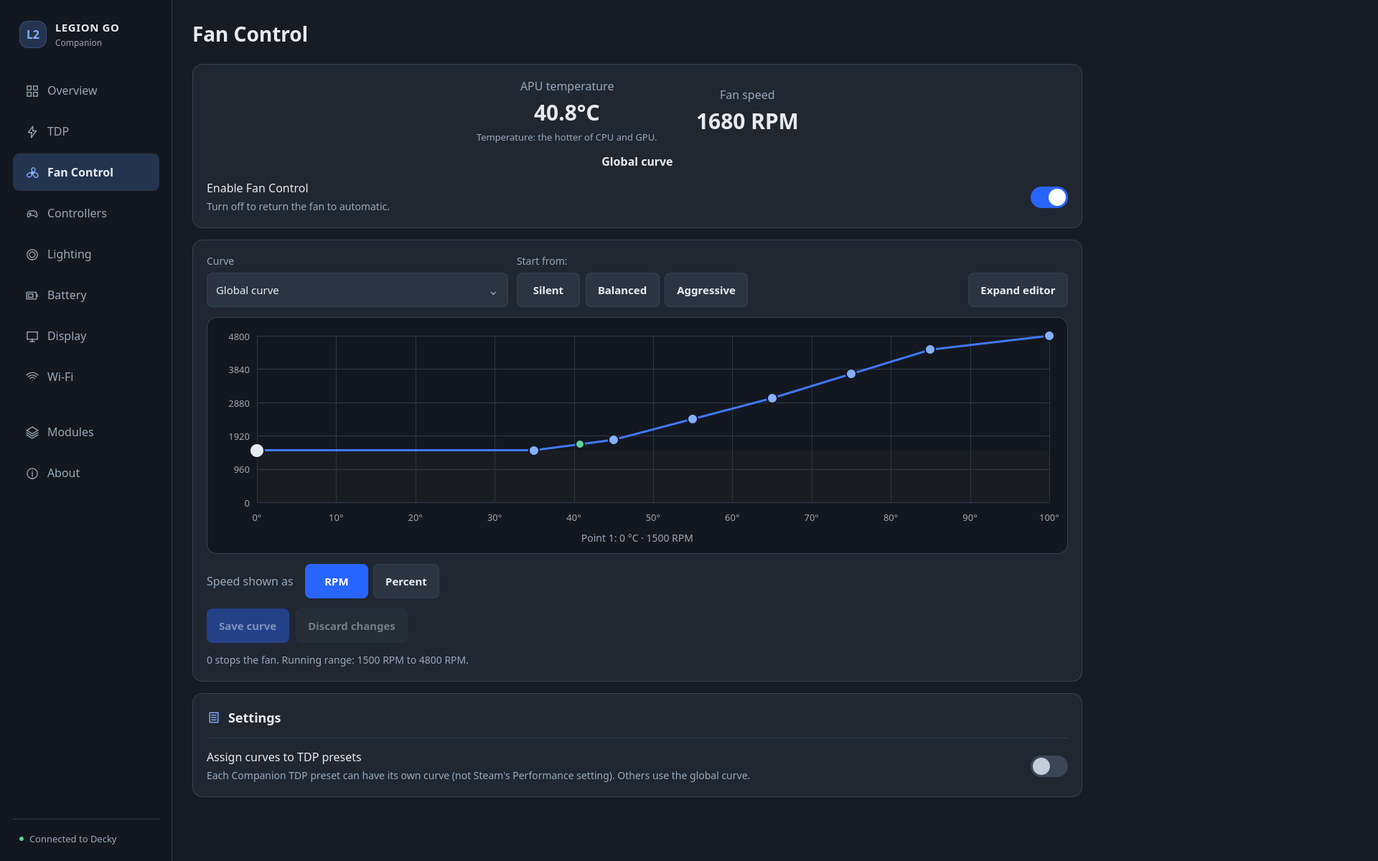
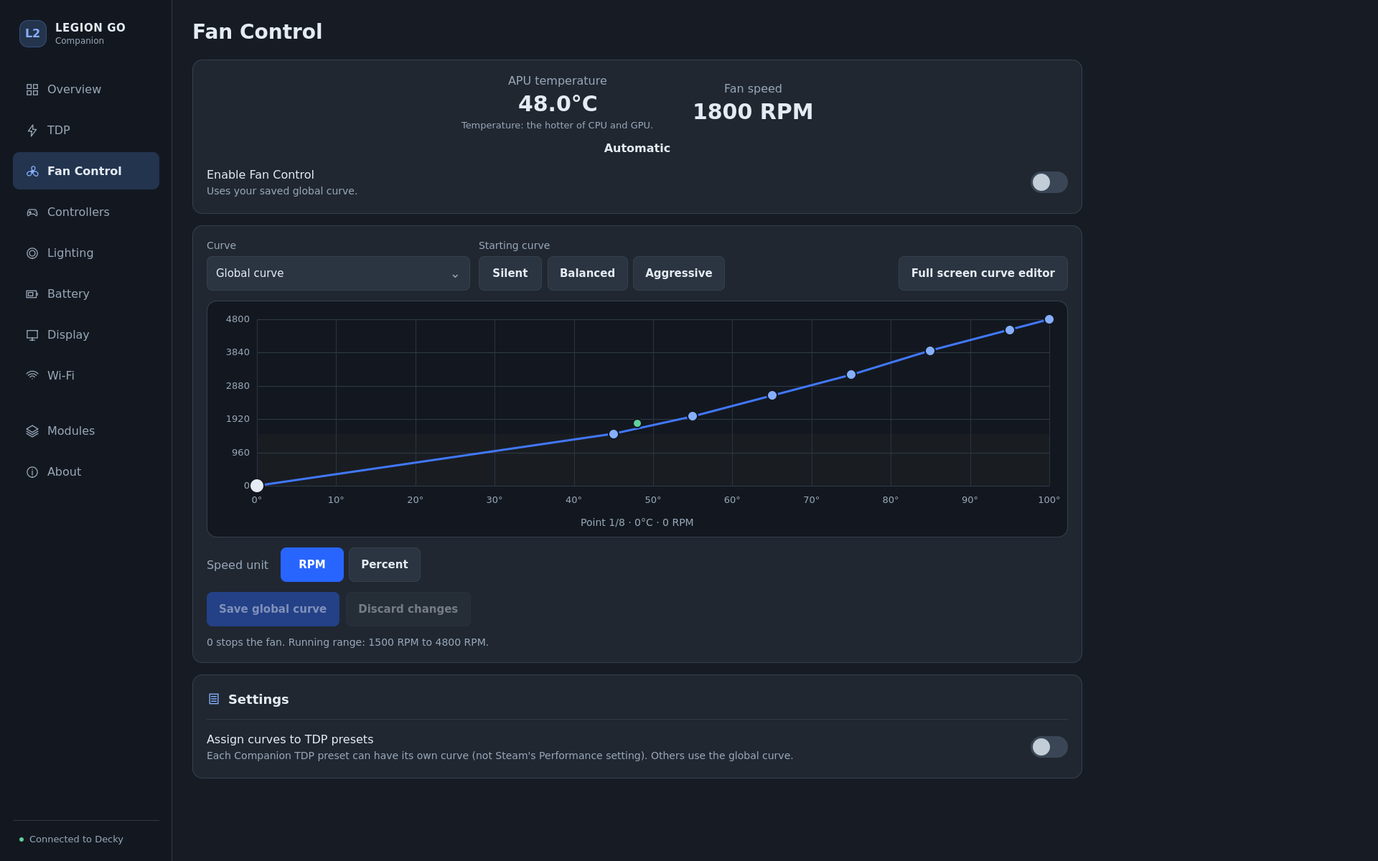
Audit follow-ups: build keeps the native app, checksum, Desktop parity
- npm run build cleans only rollup's own output, so dist/desktop survives;
  npm run package writes LegionGo2Companion-<version>.zip.sha256
  (sha256sum format), checked by verify-package.py and uploaded by CI.
- README: packaging needs Git and tar, no external ZIP tool;
  docs/README.md in English; Desktop TDP and Fan screenshots regenerated
  from the offline fixtures.
- Desktop follows the panel: Overview TDP badge uses the panel summary
  (Off · Lenovo defaults when TDP is off), the TDP editor shows a loading
  line instead of placeholder limits, About shows the update check result,
  Vibration warns about a missing controller driver. The rules live in
  desktop/native/{tdp,updates,vibration}.mjs and both UIs use them.
- Fan labels in the Desktop app match the panel (Starting curve, Speed
  unit, Speed edit step, Full screen curve editor, save and point texts
  from fan.mjs).

diff --git a/desktop/native/ModulePage.qml b/desktop/native/ModulePage.qml
@@ -7,6 +7,7 @@ import "wifi.mjs" as Wifi
 import "battery.mjs" as Battery
 import "rgb.mjs" as Rgb
 import "vibration.mjs" as Vibe
+import "updates.mjs" as Updates
 import "remap.mjs" as Remap
 import "controller.mjs" as Gyro
 import "firmware.mjs" as Firmware
@@ -24,6 +25,8 @@ RowLayout {
     // The Custom draft as in Decky: watts, boosts as headroom above SPL (see tdp.mjs).
     property var powerDraft:({spl:15,spptOff:5,fpptOff:10})
     property bool powerDirty:false
+    // Until the first get_settings the draft holds placeholders, so the editor shows a loading line instead.
+    property bool powerLoaded:false
     readonly property bool editing:powerDirty
     property string powerNotice:""
     property string draftGame:""
@@ -134,7 +137,7 @@ RowLayout {
     function gameProfileFresh() { return !!app() && backend.gameProfileApp===app() && backend.age("get_game_profile")<8; }
     function acOnline() { return s("get_power_source").ac===true; }
     function loadPower() {
-        if(!backend || powerDirty || !profileReady()) return;
+        if(!backend || powerDirty || !profileReady() || s("get_settings").spl==null) return;
         let source=s("get_settings");
         if(tdpScope!=="global" && s("get_game_profile").exists)
             source=tdpScope==="ac"?s("get_game_profile").ac_profile || source:s("get_game_profile").profile || source;
@@ -147,6 +150,7 @@ RowLayout {
             Tdp.fromAbsolute(w,sw,fw);
         if(s("get_game_profile").exists)acSeparate=!!s("get_game_profile").ac_separate;
         draftGame=app();
+        powerLoaded=true;
     }
     // What the running game uses: its saved profile decides; without one (or without a TDP provider to save
     // it), the local choice stands.
@@ -367,16 +371,17 @@ RowLayout {
                      note:()=>Tdp.scopeNote(gameUse(),gameTitle(app()))}),
                 choices("Edit settings for",()=>tdpScope==="ac"?"charger":"battery",chooseEditTarget,()=>[{id:"battery",label:"Battery"},{id:"charger",label:"Charger"}],
                     {kind:"options",scope:true,visible:()=>!!app() && s("get_settings").enabled===true && gameUse()==="charger",available:gameProfileFresh,note:editTargetNote}),
-                choices("Preset",()=>powerPreset,choosePreset,powerOptions,{kind:"options",available:()=>!!s("get_caps").tdp_available && !!s("get_settings").enabled,
+                notice("",()=>powerLoaded?"":"Loading power limits…"),
+                choices("Preset",()=>powerPreset,choosePreset,powerOptions,{kind:"options",visible:()=>powerLoaded,available:()=>!!s("get_caps").tdp_available && !!s("get_settings").enabled,
                     note:()=>Tdp.presetNote(powerPreset,presetTable())}),
-                number("Sustained power",()=>powerDraft.spl,v=>editPower("spl",v),tdpMin,()=>customCaps().spl,{kind:"range",suffix:" W",visible:()=>powerPreset==="custom",
+                number("Sustained power",()=>powerDraft.spl,v=>editPower("spl",v),tdpMin,()=>customCaps().spl,{kind:"range",suffix:" W",visible:()=>powerLoaded && powerPreset==="custom",
                     note:()=>tdpAdvanced()?"":"Boost follows automatically."}),
-                number("Slow boost",()=>powerDraft.spptOff,v=>editPower("sppt",v),0,()=>boostRoom().sppt || 1,{kind:"range",prefix:"+",suffix:" W",visible:()=>powerPreset==="custom" && tdpAdvanced(),
+                number("Slow boost",()=>powerDraft.spptOff,v=>editPower("sppt",v),0,()=>boostRoom().sppt || 1,{kind:"range",prefix:"+",suffix:" W",visible:()=>powerLoaded && powerPreset==="custom" && tdpAdvanced(),
                     available:()=>boostRoom().sppt>0,note:()=>boostNote(powerDraft.spptOff,boostRoom().sppt)}),
-                number("Fast boost",()=>powerDraft.fpptOff,v=>editPower("fppt",v),0,()=>boostRoom().fppt || 1,{kind:"range",prefix:"+",suffix:" W",visible:()=>powerPreset==="custom" && tdpAdvanced(),
+                number("Fast boost",()=>powerDraft.fpptOff,v=>editPower("fppt",v),0,()=>boostRoom().fppt || 1,{kind:"range",prefix:"+",suffix:" W",visible:()=>powerLoaded && powerPreset==="custom" && tdpAdvanced(),
                     available:()=>boostRoom().fppt>0,note:()=>boostNote(powerDraft.fpptOff,boostRoom().fppt)}),
                 field("","buttons",()=>powerDirty?"Unsaved changes":"",id=>{ if(id==="apply")applyPower(); else { powerDirty=false; customPicked=powerPreset==="custom"; loadPower(); } },
-                    {name:"Custom limits",visible:()=>powerPreset==="custom",available:()=>profileReady() && !!s("get_caps").tdp_available && !!s("get_settings").enabled,
+                    {name:"Custom limits",visible:()=>powerLoaded && powerPreset==="custom",available:()=>profileReady() && !!s("get_caps").tdp_available && !!s("get_settings").enabled,
                      choices:()=>[{id:"apply",label:applyLabel(),tone:"primary",enabled:powerDirty},{id:"discard",label:"Discard",enabled:powerDirty}]}),
                 text("Limits now",()=>Tdp.limitsText(s("get_tdp_info"))),
                 text("Set by",()=>Tdp.sourceText(s("get_tdp_info"))),
@@ -405,6 +410,8 @@ RowLayout {
             ]}],
             vibration:[{title:"Vibration",barTitle:"Troubleshooting",fields:[
                 notice("",()=>s("vibe_is_ready").error || ""),
+                // As in Decky, once the driver status has been read.
+                notice("",()=>{const missing=backend.age("vibe_get_driver_status")<Infinity && Vibe.driverNotice(s("vibe_get_driver_status"));return missing?missing[0]+". "+missing[1]:"";}),
                 switcher("Per-game profile",()=>s("vibe_get_settings").overwrite,"vibe_set_profile_overwrite",v=>[app(),v,""],{available:()=>vibeReady() && !!app(),
                     note:()=>!app()?"Start a game to give it its own settings.":s("vibe_get_settings").overwrite?"This game has its own settings.":"This game uses the global settings."}),
                 choices("Vibration strength",()=>s("vibe_get_settings").settings?.level,v=>change("vibe_set_intensity",vibeArgs(v)),vibeLevels,{kind:"options",available:vibeReady}),
@@ -528,7 +535,7 @@ RowLayout {
                 notice("",()=>s("get_version").modules?.display?.note?"Takes effect when you return to Gaming Mode.":"")])}],
             about:[{title:"Companion",fields:[
                 text("Version",()=>s("get_version").version || "—"),
-                text("Latest version",()=>s("updates_check").latest_version || "Not checked"),
+                text("Updates",()=>updateStatus()[0],{note:()=>updateStatus()[1]}),
                 action("Check for updates","updates_check"),
                 field("Download update","button",()=>"Download "+(s("updates_check").latest_version || ""),()=>change("updates_download",[s("updates_check").latest_version]),{visible:()=>!!s("updates_check").update_available && !!s("updates_check").download_available && !!s("updates_check").latest_version}),
                 text("Downloaded to",()=>s("updates_download").path || "—",{visible:()=>!!s("updates_download").path}),
@@ -536,6 +543,8 @@ RowLayout {
             ]}]
         };
     }
+    // As in Decky: the last successful check, named by its result.
+    function updateStatus() { const check=s("updates_check");return Updates.updateStatus(check,check.current_version || s("get_version").version || "—"); }
     function display() { return s("display_get_state"); }
     function nativeDisplay() { const state=s("display_get_state");return state.native_support_detected===true || state.native_cleanup_pending===true; }
     function confirmedNativeDisplay() { const state=s("display_get_state");return state.native_support_detected===true && String(state.native_support_reason || "").indexOf("Gamescope includes the native Legion Go 2 display profile.")===0; }

diff --git a/desktop/native/FanPage.qml b/desktop/native/FanPage.qml
@@ -119,7 +119,7 @@ ColumnLayout {
             }
             ColumnLayout {
                 Layout.fillWidth:true; Layout.minimumWidth:0; spacing:6
-                Label { textFormat:Text.PlainText; text:"Start from:"; color:theme.muted; font.pixelSize:theme.fontSmall }
+                Label { textFormat:Text.PlainText; text:"Starting curve"; color:theme.muted; font.pixelSize:theme.fontSmall }
                 Flow {
                     objectName:"fanTemplate"; Layout.fillWidth:true; spacing:8
                     Repeater {
@@ -132,7 +132,7 @@ ColumnLayout {
                     }
                 }
             }
-            UiButton { text:"Expand editor"; Layout.alignment:Qt.AlignRight|Qt.AlignBottom; Layout.columnSpan:curveToolbar.columns===2?2:1; onClicked:fullscreen.showFullScreen(); enabled:moduleStatus.ready && panel.draft.length===8 }
+            UiButton { text:"Full screen curve editor"; Layout.alignment:Qt.AlignRight|Qt.AlignBottom; Layout.columnSpan:curveToolbar.columns===2?2:1; onClicked:fullscreen.showFullScreen(); enabled:moduleStatus.ready && panel.draft.length===8 }
         }
         CurveGraph {
             id:graph; Layout.fillWidth:true; Layout.preferredHeight:330
@@ -143,15 +143,15 @@ ColumnLayout {
         }
         RowLayout {
             Layout.fillWidth:true; spacing:16
-            Label { textFormat:Text.PlainText; text:"Speed shown as"; color:theme.muted }
-            UiOptions { objectName:"fanUnits"; Layout.fillWidth:true; choices:[{id:"rpm",label:"RPM"},{id:"percent",label:"Percent"}]; value:panel.unit; enabled:panel.editable; onSelected:function(value){panel.changeUnit(value);} Accessible.name:"Fan speed units" }
+            Label { textFormat:Text.PlainText; text:"Speed unit"; color:theme.muted }
+            UiOptions { objectName:"fanUnits"; Layout.fillWidth:true; choices:[{id:"rpm",label:"RPM"},{id:"percent",label:"Percent"}]; value:panel.unit; enabled:panel.editable; onSelected:function(value){panel.changeUnit(value);} Accessible.name:"Speed unit" }
         }
         Label { textFormat:Text.PlainText; visible:panel.dirty && Number(settings.revision)!==panel.revision; text:"Settings changed in Decky or another window. Your draft is preserved; reload before saving."; color:theme.warning; wrapMode:Text.WordWrap; Layout.fillWidth:true }
         Label { textFormat:Text.PlainText; visible:panel.dirty && !panel.scopeAvailable; text:"TDP curve assignments changed. Your draft is preserved. Discard it to return to the global curve."; color:theme.warning; wrapMode:Text.WordWrap; Layout.fillWidth:true }
         Flow {
             Layout.fillWidth:true; spacing:10
             // An unchanged curve can still be saved to confirm a review or to give an inheriting preset its own curve.
-            UiButton { objectName:"fanSave"; text:panel.scope==="global"?"Save global curve":"Assign curve to "+Fan.curveName(panel.scope); tone:"primary"
+            UiButton { objectName:"fanSave"; text:Fan.saveLabel(panel.scope); tone:"primary"
                 enabled:panel.editable && panel.scopeAvailable && Number(settings.revision)===panel.revision
                     && (panel.dirty || !!fanState.needs_curve_review || panel.scope!=="global" && !settings.presets?.[panel.scope]); onClicked:panel.save() }
             UiButton { text:"Discard changes"; enabled:panel.dirty && !backend.busy; onClicked: { panel.dirty=false; panel.load(); } }
@@ -182,7 +182,7 @@ ColumnLayout {
                 Layout.fillWidth:true
                 Label { textFormat:Text.PlainText; text:"Fan curve editor"; color:theme.text; font.pixelSize:24; font.weight:Font.DemiBold; Layout.fillWidth:true; Layout.minimumWidth:0; wrapMode:Text.WordWrap }
                 UiComboBox { model:panel.scopes; textRole:"label"; valueRole:"id"; currentIndex:panel.scopes.findIndex(s=>s.id===panel.scope); onActivated:panel.switchScope(currentValue) }
-                UiButton { text:"Close"; onClicked:fullscreen.close() }
+                UiButton { text:"Back to Fan Control"; onClicked:fullscreen.close() }
             }
             CurveGraph {
                 id:editorGraph
@@ -206,7 +206,7 @@ ColumnLayout {
                 UiButton { objectName:"editorFaster"; text:"+ speed"; enabled:panel.editable; onClicked:editorGraph.nudge(0,1) }
                 Item { width:12; height:1 }
                 Row { spacing:8 // the step label wraps together with its choice
-                Label { textFormat:Text.PlainText; text:"Step:"; color:theme.muted; height:theme.target; verticalAlignment:Text.AlignVCenter }
+                Label { textFormat:Text.PlainText; text:"Speed edit step"; color:theme.muted; height:theme.target; verticalAlignment:Text.AlignVCenter }
                 UiComboBox {
                     objectName:"editorStep"; Accessible.name:"Speed edit step"
                     width:150
@@ -219,8 +219,8 @@ ColumnLayout {
             RowLayout { Layout.fillWidth:true; spacing:10
                 Label { textFormat:Text.PlainText; visible:panel.dirty; text:"Unsaved changes"; color:theme.warning; font.pixelSize:theme.fontSmall; Layout.fillWidth:true }
                 Item { visible:!panel.dirty; Layout.fillWidth:true }
-                UiButton { objectName:"editorDiscard"; text:"Discard"; enabled:panel.dirty && !backend.busy; onClicked: { panel.dirty=false; panel.load(); } }
-                UiButton { objectName:"editorSave"; text:"Save curve"; tone:"primary"; enabled:panel.editable && panel.scopeAvailable && panel.dirty && Number(settings.revision)===panel.revision; onClicked:panel.save() }
+                UiButton { objectName:"editorDiscard"; text:"Discard changes"; enabled:panel.dirty && !backend.busy; onClicked: { panel.dirty=false; panel.load(); } }
+                UiButton { objectName:"editorSave"; text:Fan.saveLabel(panel.scope); tone:"primary"; enabled:panel.editable && panel.scopeAvailable && panel.dirty && Number(settings.revision)===panel.revision; onClicked:panel.save() }
             }
         }
     }

diff --git a/src/fan.tsx b/src/fan.tsx
@@ -5,7 +5,7 @@ import { ButtonItem, PanelSection, PanelSectionRow, ToggleField, Focusable, Game
   DialogFooter, DialogButton, ModalRoot, showModal, type GamepadEvent } from "@decky/ui";
 import { FC, useEffect, useRef, useState } from "react";
 import { errorText, infoRow } from "./shared";
-import { curveName as title, editPoint, fanStatus, nudgeSpeed, speedText } from "../desktop/native/fan.mjs";
+import { curveName as title, editPoint, fanStatus, nudgeSpeed, pointText, saveLabel, speedText } from "../desktop/native/fan.mjs";
 
 export type Curve = [number, number][];
 export interface FanState {
@@ -148,7 +148,7 @@ export const CurveGraph: FC<{curve: Curve; selected: number; status: FanState; d
       {fresh && <g data-fan-live-marker="true" style={{pointerEvents:"none"}}><circle cx={x(Math.min(100,Math.max(0,status.readings!.apu_temperature!)))}
         cy={y(Math.min(status.limits.max_rpm,Math.max(0,status.readings!.rpm!)))} r="6" fill="#f5c96b" stroke="#111" strokeWidth="2" />
         <text x={left} y={fullscreen ? 24 : 18} fill="#f5c96b" fontSize={font}>{`Live tach · ${fanReadingLabel(status)}`}</text></g>}
-      <text x={left} y={fullscreen ? 299 : 240} fill="currentColor" fontSize={font}>{`Point ${selected+1}/8 · ${curve[selected][0]}°C · ${speedLabel(curve[selected][1],status)}${selected===7 ? " · speed only" : ""}`}</text>
+      <text x={left} y={fullscreen ? 299 : 240} fill="currentColor" fontSize={font}>{pointText(selected,curve.length,curve[selected][0],speedLabel(curve[selected][1],status))}</text>
     </svg>
   </Focusable>;
 };
@@ -359,7 +359,7 @@ export const FanPage: FC<{viewVisible?: boolean; isViewVisible?: () => boolean; 
     </DialogBody>
     <DialogFooter style={{display:"flex",gap:12,margin:0,padding:0,flexShrink:0}}>
       <Focusable flow-children="row" data-fan-footer="true" style={{display:"flex",gap:12,width:"100%"}}>
-      <DialogButton style={{flex:1}} disabled={saveDisabled} onClick={save}>{scope==="global" ? "Save global curve" : `Assign curve to ${title(scope)}`}</DialogButton>
+      <DialogButton style={{flex:1}} disabled={saveDisabled} onClick={save}>{saveLabel(scope)}</DialogButton>
       <DialogButton style={{flex:1}} disabled={busy || !dirty} onClick={discard}>Discard changes</DialogButton>
       <DialogButton style={{flex:1}} onClick={onClose}>Back to Fan Control</DialogButton>
       </Focusable>
@@ -387,7 +387,7 @@ export const FanPage: FC<{viewVisible?: boolean; isViewVisible?: () => boolean; 
         onChange={option=>setRpmStep(unit === "percent" ? Math.round(option.data*limits.max_rpm/100) : option.data)} /></PanelSectionRow>
       <PanelSectionRow><ButtonItem layout="below" disabled={busy} onClick={openFull}>Full screen curve editor</ButtonItem></PanelSectionRow>
       <PanelSectionRow><ButtonItem layout="below" disabled={saveDisabled} onClick={save} description={failure("save")}>
-        {scope === "global" ? "Save global curve" : `Assign curve to ${title(scope)}`}</ButtonItem></PanelSectionRow>
+        {saveLabel(scope)}</ButtonItem></PanelSectionRow>
       <PanelSectionRow><ButtonItem layout="below" disabled={busy || !dirty} onClick={discard}>Discard changes</ButtonItem></PanelSectionRow>
       {scope !== "global" && status.settings.presets[scope] && <PanelSectionRow><ButtonItem layout="below" disabled={busy || dirty}
         onClick={useGlobal}>Use global curve for {title(scope)}</ButtonItem></PanelSectionRow>}

diff --git a/src/updates.tsx b/src/updates.tsx
@@ -4,19 +4,8 @@
 import { callable } from "@decky/api";
 import { ButtonItem, PanelSection, PanelSectionRow } from "@decky/ui";
 import { FC, useEffect, useRef, useState } from "react";
+import { type UpdateCheck, updateStatus } from "../desktop/native/updates.mjs";
 import { errorText, infoRow } from "./shared";
-
-interface UpdateCheck {
-  success: boolean;
-  current_version: string;
-  latest_version?: string;
-  update_available: boolean;
-  download_available: boolean;
-  size?: number;
-  checked_at?: number;
-  no_release?: boolean;
-  error?: string;
-}
 
 interface UpdateDownload {
   success: boolean;
@@ -56,20 +45,6 @@ export function stopUpdates() {
   generation++;
   active = false;
   publish({ busy: null });
-}
-
-function statusText(check: UpdateCheck | undefined, currentVersion: string): [string, string] {
-  if (!check) return ["GitHub releases", `Installed version: ${currentVersion}. Check for updates when you need them.`];
-  if (check.no_release) return ["No public release yet", `Installed version: ${currentVersion}. A download will appear after a release is published on GitHub.`];
-  if (check.update_available) {
-    if (!check.download_available) return ["New release found", `Version ${check.latest_version} has no downloadable plugin ZIP yet. Check again later.`];
-    const size = check.size && check.size > 0 ? ` (${(check.size / 1048576).toFixed(1)} MB)` : "";
-    return ["Update available", `Version ${check.latest_version}${size}. Download the release ZIP from GitHub.`];
-  }
-  if (check.latest_version && check.latest_version !== currentVersion) {
-    return ["No newer release", `Installed: ${currentVersion}. Latest public release: ${check.latest_version}.`];
-  }
-  return ["Up to date", `Version ${currentVersion} is the latest public release.`];
 }
 
 export const UpdateSection: FC<{ currentVersion: string }> = ({ currentVersion }) => {
@@ -114,7 +89,7 @@ export const UpdateSection: FC<{ currentVersion: string }> = ({ currentVersion }
   };
 
   const installed = view.check?.current_version || currentVersion;
-  const [label, description] = statusText(view.check, installed);
+  const [label, description] = updateStatus(view.check, installed);
   const canDownload = view.check?.update_available && view.check.download_available && view.check.latest_version;
   return <PanelSection title="Updates">
     {infoRow(label, description)}

diff --git a/desktop/native/tests/qml/tst_profiles.qml b/desktop/native/tests/qml/tst_profiles.qml
@@ -52,6 +52,26 @@ TestCase {
         compare(fake.calls[0].method,"apply_tdp");compare(fake.calls[0].args[0],18000);
         compare(fake.calls[0].args[3],"");compare(fake.calls[0].args[5],"42");
     }
+    // As in Decky: placeholders never show as limits, About names the check result, and a missing driver is said.
+    function test_panelRulesSharedWithDecky() {
+        fake.data=Object.assign({},fake.data,{get_settings:{enabled:true}});
+        panel=createTemporaryObject(factory,this);
+        verify(allFields("tdp").some(item=>item.kind==="paragraph" && item.get()==="Loading power limits…"));
+        compare(field("tdp","Preset").visible(),false);
+        compare(field("tdp","Sustained power").visible(),false);
+        fake.data=Object.assign({},fake.data,{get_settings:{spl:15000,sppt:20000,fppt:25000,enabled:true}});
+        panel.loadPower();
+        compare(field("tdp","Preset").visible(),true);
+        verify(!allFields("tdp").some(item=>item.kind==="paragraph" && item.get()==="Loading power limits…"));
+        fake.data=Object.assign({},fake.data,{get_version:{version:"2.2.1",modules:{}},updates_check:{success:true,current_version:"2.2.1",no_release:true,update_available:false,download_available:false}});
+        compare(field("about","Updates").get(),"No public release yet");
+        fake.data=Object.assign({},fake.data,{updates_check:{}});
+        compare(field("about","Updates").get(),"GitHub releases");
+        fake.data=Object.assign({},fake.data,{vibe_get_driver_status:{found:false}});
+        verify(allFields("vibration").some(item=>item.get()==="Controller driver not found. Needs SteamOS 3.8 or newer."));
+        fake.data=Object.assign({},fake.data,{vibe_get_driver_status:{found:true}});
+        verify(!allFields("vibration").some(item=>item.get()==="Controller driver not found. Needs SteamOS 3.8 or newer."));
+    }
     function test_modulesExposeTheExistingCleanupAndStartupRetryActions() {
         fake.data=Object.assign({},fake.data,{get_version:{blocked:false,modules:{
             fan:{enabled:false,ready:false,pending:true,error:"Restoration is pending."},

diff --git a/desktop/native/tests/qml/tst_overview.qml b/desktop/native/tests/qml/tst_overview.qml
@@ -91,10 +91,13 @@ TestCase {
         compare(findChild(view,"overviewPowerLimit").value,"SPL 20 · SPPT 25 · FPPT 30 W");
         compare(findChild(view,"overviewPreset").text,"Custom","Unknown limits");
         fake.data=Object.assign({},fake.data,{get_settings:{spl:35000,sppt:37000,fppt:45000,active_preset:"max"}});
-        compare(findChild(view,"overviewPreset").text,"Maximum");
+        compare(findChild(view,"overviewPreset").text,"Maximum · 35 W");
         // A game's limits are named by their values, not by Global's saved preset (as in Decky).
         fake.data=Object.assign({},fake.data,{get_settings:{spl:35000,sppt:37000,fppt:45000,active_spl:16000,active_sppt:25000,active_fppt:30000,active_preset:"max"}});
-        compare(findChild(view,"overviewPreset").text,"Balanced");
+        compare(findChild(view,"overviewPreset").text,"Balanced · 16 W");
+        // As in Decky: TDP control off means Lenovo's limits run, whatever preset is saved.
+        fake.data=Object.assign({},fake.data,{get_settings:{enabled:false,spl:35000,sppt:37000,fppt:45000,active_preset:"max"}});
+        compare(findChild(view,"overviewPreset").text,"Off · Lenovo defaults");
         fake.data=Object.assign({},fake.data,{vibe_get_settings:{settings:{level:2,mode:0}},vibe_get_capabilities:{intensity:["off","low","medium","high"],mode:["fps","racing"]}});
         compare(findChild(view,"overviewVibration").value,"Medium · FPS");
     }

diff --git a/src/vibration.tsx b/src/vibration.tsx
@@ -20,7 +20,7 @@ import {
 } from "@decky/api";
 import { useState, useEffect, useCallback, useRef } from "react";
 import { detailsRows, errorText, infoRow, mutationQueue, runningApp, watchRunningApp, type RunningApp } from "./shared";
-import { FALLBACK_MODES, LEVELS_SHORT, modeShort, touchpadStrengthEditable } from "../desktop/native/vibration.mjs";
+import { driverNotice, FALLBACK_MODES, LEVELS_SHORT, modeShort, touchpadStrengthEditable } from "../desktop/native/vibration.mjs";
 
 // ── Types ─────────────────────────────────────────────────────────────────────
 
@@ -608,12 +608,13 @@ const LGoVibeControl = () => {
   }
 
   const driverFound = driver?.found ?? false;
+  const missingDriver = driverNotice(driver);
   const gameRunning = appId !== DEFAULT_APP;
 
   return (
     <div style={styles.container}>
       <PanelSection title="Vibration">
-        {!driverFound && infoRow("Controller driver not found", "Needs SteamOS 3.8 or newer.")}
+        {missingDriver && infoRow(missingDriver[0], missingDriver[1])}
         <PanelSectionRow>
           <ToggleField
             label="Per-game profile"

diff --git a/rollup.config.js b/rollup.config.js
@@ -2,7 +2,7 @@
 // Adapted from @decky/rollup 1.0.2, Copyright (c) 2024 Steam Deck Homebrew.
 // See LICENSE.DECKY-ROLLUP. Keep Decky's globals without the old glob-based
 // deletion plugin and its unpatched braces dependency.
-import { readFileSync, rmSync } from "node:fs";
+import { existsSync, readdirSync, readFileSync, rmSync } from "node:fs";
 import { dirname, resolve } from "node:path";
 import { fileURLToPath } from "node:url";
 import commonjs from "@rollup/plugin-commonjs";
@@ -24,7 +24,11 @@ export default {
   context: "window",
   external: ["react", "react-dom", "@decky/ui"],
   plugins: [
-    { name: "clean-output", buildStart() { rmSync(output, { recursive: true, force: true }); } },
+    // dist/desktop holds the separately built native app; clean only rollup's own output.
+    { name: "clean-output", buildStart() {
+      for (const name of existsSync(output) ? readdirSync(output) : [])
+        if (name !== "desktop") rmSync(resolve(output, name), { recursive: true, force: true });
+    } },
     typescript(), json(), commonjs(), nodeResolve({ browser: true }),
     externalGlobals({
       react: "SP_REACT", "react/jsx-runtime": "SP_JSX", "react-dom": "SP_REACTDOM",

diff --git a/desktop/native/OverviewPage.qml b/desktop/native/OverviewPage.qml
@@ -68,7 +68,7 @@ ColumnLayout {
             padding:20
             Layout.fillWidth:true; Layout.fillHeight:true; Layout.preferredWidth:2; Layout.minimumWidth:0
             title:"Performance & cooling"; icon:"tdp"
-            trailing:UiBadge { objectName:"overviewPreset"; text:fresh("get_settings",12)?Tdp.activeLimits(overview.power)?.label ?? "Custom":overview.available("tdp") }
+            trailing:UiBadge { objectName:"overviewPreset"; text:fresh("get_settings",12)?Tdp.overviewSummary(overview.power):overview.available("tdp") }
             RowLayout { Layout.fillWidth:true; spacing:18; Layout.topMargin:10
                 UiMetric { objectName:"overviewTemperature"; Layout.fillWidth:true; Layout.preferredWidth:1; label:"APU temperature"; value:overview.fanFresh?Number(overview.fan.readings.apu_temperature).toFixed(1)+" °C":"—"; note:"Hotter of CPU and GPU" }
                 UiMetric { objectName:"overviewPower"; Layout.fillWidth:true; Layout.preferredWidth:1; label:"APU power"; value:overview.performanceFresh && overview.powerInfo.values?.package_draw!==undefined?Number(overview.powerInfo.values.package_draw).toFixed(1)+" W":"—" }

diff --git a/src/index.tsx b/src/index.tsx
@@ -13,7 +13,7 @@ import {
 import { FC, ReactNode, useEffect, useRef, useState } from "react";
 import { DisplayPage } from "./display";
 import { TdpPage, startTdpWatcher, stopTdpWatcher } from "./tdp";
-import { activeLimits } from "../desktop/native/tdp.mjs";
+import { overviewSummary } from "../desktop/native/tdp.mjs";
 import { FanPage, getFanState, fanSummary, type FanState } from "./fan";
 import {
   VibrationPage,
@@ -404,12 +404,7 @@ const SectionHeader: FC<{ title: string; onBack: () => void }> = ({ title, onBac
   </PanelSection>;
 };
 
-const tdpSummary = (settings?: TdpSettings) => {
-  if (!settings) return "Power limits and CPU settings";
-  if (settings.enabled === false) return "Off · Lenovo defaults";
-  const now = activeLimits(settings);
-  return now ? `${now.label} · ${now.spl} W` : "Custom";
-};
+const tdpSummary = (settings?: TdpSettings) => settings ? overviewSummary(settings) : "Power limits and CPU settings";
 
 const VIBE_LEVELS = ["Off", "Low", "Medium", "High"];
 const VIBE_MODES = ["FPS", "Racing", "Standard", "SPG", "RPG"];

diff --git a/desktop/native/CurveGraph.qml b/desktop/native/CurveGraph.qml
@@ -111,8 +111,8 @@ FocusScope {
     Label { textFormat:Text.PlainText;
         anchors { left:parent.left; right:parent.right; bottom:parent.bottom; margins:12 }
         horizontalAlignment:Text.AlignHCenter; color:graph.editing?theme.text:theme.muted; font.pixelSize:14
-        text:graph.curve.length ? "Point " +(graph.selected+1)+": "+graph.curve[graph.selected][0]+" °C · "+graph.displaySpeed(graph.curve[graph.selected][1])+
-             (graph.selected===graph.curve.length-1?" · speed only":"") : "Waiting for fan settings"
+        text:graph.curve.length ? Fan.pointText(graph.selected,graph.curve.length,graph.curve[graph.selected][0],graph.displaySpeed(graph.curve[graph.selected][1]))
+             : "Waiting for fan settings"
         wrapMode:Text.WordWrap
     }
 }

diff --git a/scripts/verify-package.py b/scripts/verify-package.py
@@ -51,6 +51,9 @@ with zipfile.ZipFile(archive) as payload:
             source = root / Path(*relative.parts)
         assert source.is_file() and payload.read(member) == source.read_bytes(), f'Stale/unexpected file: {path}'
         files += 1
+digest = hashlib.sha256(archive.read_bytes()).hexdigest()
+checksum = archive.with_name(archive.name + '.sha256')
+assert checksum.read_text(encoding='utf-8') == f'{digest}  {archive.name}\n', 'Stale/missing checksum file'
 print(json.dumps({'archive': str(archive), 'manifest_version': manifest['version'],
-                  'files': files, 'sha256': hashlib.sha256(archive.read_bytes()).hexdigest(),
+                  'files': files, 'sha256': digest,
                   'status': 'PASS'}, indent=2))
